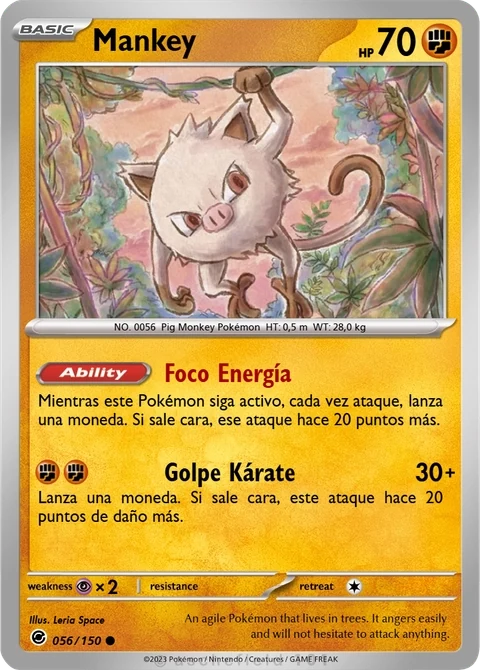
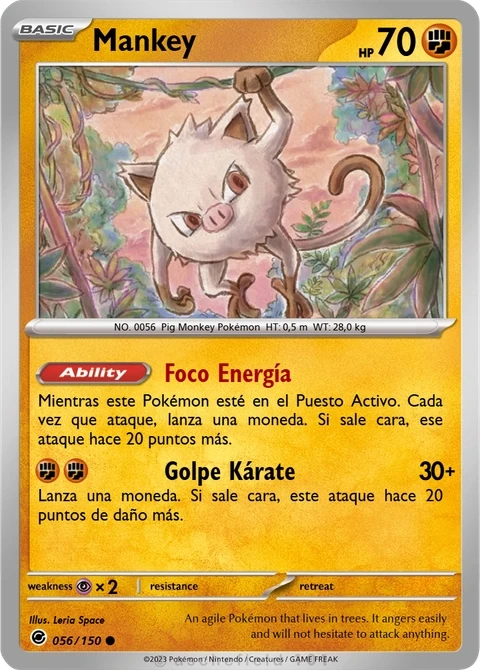
Diseño: Machop, Cubone, Zubat, Slowpoke y Mankey corregido (cartas impresas) (#431)
* Diseño: Machop impreso (066/150) como Mankey y Mankey corregido

Machop pasa a llevar la habilidad Foco Energía y Golpe Kárate (2: 30+)
de Mankey, con su imagen. Se actualizan la imagen de Mankey y el texto
de su habilidad (JSON y copia de la app) y D-20.

Claude-Session: https://claude.ai/code/session_01CiFZA4THdagxuKykbE7hWQ

* D-20: fila de Machop, texto de Foco Energía y registro (Machop como Mankey)

Claude-Session: https://claude.ai/code/session_01CiFZA4THdagxuKykbE7hWQ

* Diseño: Cubone impreso (104/150) y Mankey con retirada 0

Cubone pasa a debilidad planta y un solo ataque (Hueso Palo, 2: 30), con
su imagen. Mankey queda con retirada 0 como su carta reimpresa.

Claude-Session: https://claude.ai/code/session_01CiFZA4THdagxuKykbE7hWQ

* Diseño: Zubat impreso (041/150) con debilidad eléctrico y Supersónico pendiente

Sube la imagen, cambia la debilidad en el JSON y registra en D-20 el
efecto nuevo confundeDefensor (tarea 15). El resto del JSON espera al
efecto para no romper el catálogo.

Claude-Session: https://claude.ai/code/session_01CiFZA4THdagxuKykbE7hWQ

* Diseño: Slowpoke impreso (079/150); confundeDefensor con monedas

Sube la imagen y amplía la tarea 15: Hidropulso lanza 2 monedas y
confunde solo si ambas son Cara. El JSON espera al efecto.

Claude-Session: https://claude.ai/code/session_01CiFZA4THdagxuKykbE7hWQ

* Test: Mankey con retirada 0 (carta reimpresa)

Claude-Session: https://claude.ai/code/session_01CiFZA4THdagxuKykbE7hWQ

---------

Changed region(s): [[0.0625, 0.5672, 0.9375, 0.806], [0.8125, 0.6866, 0.9688, 0.7761], [0.7188, 0.8657, 0.7812, 0.8955]]

diff --git a/engine/test/campana_catalogo_test.dart b/engine/test/campana_catalogo_test.dart
@@ -164,7 +164,7 @@ void main() {
       expect(m.ps, 70);
       expect(m.tipo, TipoCampana.lucha);
       expect(m.debilidad!.tipo, TipoCampana.psiquico);
-      expect(m.retirada, 1);
+      expect(m.retirada, 0);
       final h = m.habilidad as MonedaDanoExtraAlAtacar;
       expect(h.nombre, 'Foco Energía');
       expect(h.valor, 20);

diff --git a/docs/D-20-modo-campana.md b/docs/D-20-modo-campana.md
@@ -167,8 +167,9 @@ Decidido el 2026-11-21. Un ataque puede llevar un `efecto` y entonces puede tene
 - **`aumentaDanoRecibido` (Látigo de Squirtle):** «Mientras el Pokémon Defensor siga activo, recibe 10 puntos más de daño de los ataques (antes de aplicar debilidad y resistencia). No se acumula.» Es el efecto simétrico: mismas reglas (dura mientras ese Pokémon siga activo, se quita al cambiarlo o cuando cae, no se acumula) pero sobre el daño que **recibe**. Se suma antes de la debilidad y la resistencia; un ataque sin daño no gana el extra. Los dos efectos se combinan. Estado del bando afectado: `BandoCombate.danoExtra`.
 - **`quitaEnergiaRival` (Disparo Demora de Caterpie):** «El rival pierde 1 de energía (si le queda alguna). No se acumula con nada: se aplica una vez, al usar el ataque.» Es instantáneo: baja la reserva del rival en `valor` (mínimo 0) en el momento de atacar y no deja estado, así que no hay nada que acumular ni que quitar al cambiar de Pokémon. Vale como ataque de 0 de daño (coste 1). La IA lo usa solo si con ello el rival deja de poder dar un golpe mayor que el que haría ella atacando.
 - **`ganaEnergia` (Pulimento de Geodude):** «Tu bando recupera 2 de energía (hasta el máximo de 10).» Ataque de coste 1 y 0 de daño. Instantáneo, como `quitaEnergiaRival`: al usarlo, primero se paga el coste y después se suma `valor` a la reserva del propio bando, con tope en el máximo (`ParametrosCombate.energiaMaxima`, 10); no deja estado, así que no hay nada que acumular ni que quitar al cambiar de Pokémon. Si el ataque falla por Bofetón Lodo (cruz), no suma nada. Propuesto por Ayme el 2026-11-22 a partir de Pulimento de los juegos (sube la Velocidad dos niveles): la velocidad se traslada a la energía. **Ojo con el número:** como Cargar ya da 1 de energía extra (2 en total ese turno), Pulimento con coste 1 y `valor` 2 deja el mismo saldo que Cargar (−1 +2 +1); solo mejora a Cargar con `valor` 3. Ayme imprimió la carta con **2**; Calidad debe medir si aporta algo y, si no, se sube a 3 y se reimprime. Con la reserva llena (empieza en 10) no sirve de nada. **IA (tarea 14):** lo usa **en lugar de cargar** (cuando cargaría para rematar al turno siguiente o porque no llega a ningún ataque), y solo si la reserva no está llena, al activo le falta energía para alguno de sus ataques y acaba con al menos la misma energía que cargando. Con la reserva llena nunca lo usa.
+- **`confundeDefensor` (Supersónico de Zubat e Hidropulso de Slowpoke), nuevo y pendiente de implementar:** lleva un campo `monedas` (1 por defecto): se lanzan esas monedas y, **si todas salen Cara**, el Pokémon Defensor pasa a estar Confundido. Supersónico (Zubat): «Lanza una moneda. Si sale Cara, el Pokémon Defensor pasa a estar Confundido» (coste 1, 0 de daño). Hidropulso (Slowpoke): «Lanza 2 monedas. Si en ambas sale Cara, el Pokémon Defensor pasa a estar Confundido» (coste 3, **40 de daño**, un 25 % de confundir). Decidido el 2026-11-23 (opción 2: efecto nuevo en vez de reimprimir la carta). En campaña **Confundido no es el estado del TCG**: reutiliza el estado de `monedaFalloRival` (`BandoCombate.cegado`), de modo que, con cara, en su próximo turno el Defensor, **si ataca**, lanza una moneda y con cruz ese ataque no hace nada (la energía se gasta igual). Dura **solo ese turno** y no se acumula; no hace daño al propio Pokémon. Con cruz en la moneda del ataque no pasa nada. La IA no lo tiene en cuenta (igual que Bofetón Lodo).
 - **`monedaDanoExtra` (Hiper Colmillo de Rattata):** «Lanza una moneda, si sale cara este ataque hace 20 puntos de daño más.» Decidido el 2026-11-21: **el azar entra en el motor**, pero sin perder el determinismo. `EstadoCombate.semilla` (generador Park-Miller, mismas cuentas en la VM y en web) avanza solo al lanzar una moneda, y el resultado queda en `EstadoCombate.ultimaMoneda` para que la interfaz lo muestre. El `dano` de la carta es el de **cruz**; con cara se le suma el extra al daño base, antes de reducciones, debilidad y resistencia. La semilla se elige al empezar el combate (`EstadoCombate.inicial(semilla: …)`); con la misma semilla y las mismas acciones el combate sale igual, así que los tests y el simulador siguen siendo reproducibles. La IA **cuenta solo el daño de cruz** (no apuesta a la moneda) al decidir.
-- **Habilidades pasivas — `monedaDanoExtraAlAtacar` (Foco Energía de Mankey):** «Mientras este Pokémon siga activo, cada vez que ataque, lanza una moneda. Si sale cara, ese ataque hace 20 puntos más.» Decidido el 2026-11-22. Es la primera **habilidad**: va en el campo `habilidad` de la carta (`PokemonCampana.habilidad`), no en un ataque, y actúa sola, sin gastar energía ni turno. En `_atacar` se lanza una moneda más con la semilla del combate (se suma a `ultimasMonedas` después de las del propio ataque) y con cara se suman 20 al daño base, antes de reducciones, debilidad y resistencia. Se acumula con la moneda de Golpe Kárate (hasta +40). La IA no cuenta esta moneda: decide con el daño base del ataque. Mankey queda en 70 PS, debilidad psíquico y retirada 1.
+- **Habilidades pasivas — `monedaDanoExtraAlAtacar` (Foco Energía de Mankey y de Machop):** «Mientras este Pokémon esté en el Puesto Activo. Cada vez que ataque, lanza una moneda. Si sale cara, ese ataque hace 20 puntos más.» Decidido el 2026-11-22. Es la primera **habilidad**: va en el campo `habilidad` de la carta (`PokemonCampana.habilidad`), no en un ataque, y actúa sola, sin gastar energía ni turno. En `_atacar` se lanza una moneda más con la semilla del combate (se suma a `ultimasMonedas` después de las del propio ataque) y con cara se suman 20 al daño base, antes de reducciones, debilidad y resistencia. Se acumula con la moneda de Golpe Kárate (hasta +40). La IA no cuenta esta moneda: decide con el daño base del ataque. Mankey queda en 70 PS, debilidad psíquico y retirada 1 (después 0, el 2026-11-23).
 - **`repiteDanoAlDerribar` (Doble Patada de Nidoran♀):** «Si el Pokémon Defensor queda fuera de combate por el daño de este ataque, el nuevo Pokémon Defensor recibe de nuevo ese daño.» Decidido el 2026-11-21. Si el ataque derriba al activo rival y le quedan Pokémon, el motor guarda el ataque (`EstadoCombate.repetirDano`) y, **en cuanto el rival elige a su relevo**, ese relevo lo recibe otra vez, calculado contra **su propia** debilidad y resistencia. Se repite **una sola vez**: si el relevo también cae, no se encadena. Si era el último Pokémon, el combate termina por el primer golpe. La IA no lo tiene en cuenta.
 - **Nuevo tipo `oscuridad`:** Nidoran♀ es de tipo oscuridad (los Pokémon de veneno pasan a este tipo en el TCG). Es otro paso para alinear los tipos con el TCG, junto con la decisión de que tierra y roca son lucha.
 - **`monedasDano` (Ataque Furia de Spearow):** «Lanza 3 monedas. Con 1 cara, hace 20 puntos de daño; con 2 caras, 30; con 3 caras, 40; con 0 caras, 50.» Decidido el 2026-11-21. El ataque lanza `monedas` monedas con la semilla del combate (`EstadoCombate.ultimasMonedas` guarda todas, en orden, para mostrarlas) y hace el daño de `danoPorCaras[caras]`. El `dano` del JSON es el **daño esperado** (30: 50·1/8 + 20·3/8 + 30·3/8 + 40·1/8), que solo usa la IA y el baremo; el daño real sale de la tabla. Toda tirada hace 20 o más, así que cumple la regla del ataque de 20. La IA decide con el daño esperado, no con la tirada.
@@ -369,6 +370,7 @@ Una issue por pieza; cada una se trabaja en su rama y su PR (el título del PR c
 | 12 | Tipos del TCG: `hielo`, `veneno`, `volador`, `bicho` y `fantasma` pasan a otros tipos y entra `metal` (§8, pregunta 10; §10.3) | Hecho (#404) |
 | 13 | Pantalla del mapa como escenas interactivas (hierba alta, bordes y edificios pulsables) y retroceso entre escenas; sprites de EP, e interfaz y fondos propios (#365; §10.7); combate (tocar la carta activa y elegir acción) equipo (rejilla de cartas, PC aparte) y centro Pokémon (escena interactiva) (§10.7) | Decidido el 2026-11-22; pendiente de implementar. Wireframes cerrados; el acabado visual es del artista (§10.10) |
 | 14 | **Pulimento de Geodude:** efecto `ganaEnergia` (esquema, motor, IA), actualizar `geodude.json` a la carta impresa (§10.5) y volver a medir a Brock con el simulador | Motor, IA, esquema y `geodude.json` **hechos**; la nueva medida de Brock queda para Calidad |
+| 15 | **Supersónico de Zubat e Hidropulso de Slowpoke:** efecto `confundeDefensor` con campo `monedas` (esquema, motor, IA), actualizar `zubat.json` y `slowpoke.json` a sus cartas impresas (§10.5; el test «Zubat es de oscuridad y Ataque Ala es normal» cambia) y volver a medir con el simulador | Pendiente |
 
 ## 10. Registro de decisiones
 
@@ -434,6 +436,7 @@ Cada efecto se decidió al hacer la carta que lo lleva. Todos están en el motor
 | 2026-11-22 | `reduceDanoPropio` + `reduceDanoRival` | Fortaleza y Gruñido **se suman**. |
 | 2026-11-22 | Habilidad `monedaDanoExtraAlAtacar` (Foco Energía, Mankey) | Primera **habilidad pasiva**: cada vez que ataca, lanza una moneda; con cara, +20 (el golpe crítico modelado con moneda). Se acumula con la moneda de Golpe Kárate. #352 |
 | 2026-11-22 | `ganaEnergia` (Pulimento, Geodude) | «Tu bando recupera 2 de energía (hasta el máximo de 10).» Coste 1, 0 de daño. Sube la Velocidad de los juegos trasladada a la energía. Equivale a Cargar (−1 +2 +1); con 3 mejoraría a Cargar, pero Ayme imprimió la carta con 2. Coste antes que efecto; la IA lo usa en vez de cargar si le falta energía para su ataque grande y la reserva no está llena. Motor, IA, esquema y tests: tarea 14 (§9). |
+| 2026-11-23 | `confundeDefensor` (Supersónico, Zubat) | «Lanza una moneda. Si sale Cara, el Pokémon Defensor pasa a estar Confundido.» Coste 1, 0 de daño. Efecto nuevo (opción 2), sin reimprimir la carta; Confundido reutiliza el estado de `monedaFalloRival`. Pendiente de motor, IA y simulador (§9, 15). Lleva `monedas` (1 en Supersónico, 2 en Hidropulso). |
 
 ### 10.5 Cartas y balance
 
@@ -450,6 +453,11 @@ Cada efecto se decidió al hacer la carta que lo lleva. Todos están en el motor
 | 2026-11-22 | **Geodude impreso (074/150):** lucha, 80 PS, debilidad agua ×2, **sin resistencia**, retirada 1. **Pulimento** (1: 0 de daño, `ganaEnergia` 2) y **Lanzarrocas** (3: 50). Sustituye a Placaje; `geodude.json` pasa a la carta impresa en la tarea 14 (valores provisionales hasta que Calidad los mida contra Brock). Lanzarrocas de 3 energías y 50 entra en el baremo de básico (§3.5) pero endurece a Brock; Calidad lo mide y, si es demasiado duro, baja a 40. | §12; imagen `geodude.webp` |
 | 2026-11-22 | **Onix impreso (095/150, carta normal, no de jefe):** lucha, 110 PS, debilidad agua ×2, **sin resistencia**, retirada 1, **un solo ataque**: **Tumba Rocas** (3: 50, `quitaEnergiaRival` 1: «El rival pierde 1 energía (si le queda alguna)»). Sustituye a Atadura y Lanzarrocas; Tumba Rocas traslada a energía el «baja la Velocidad» de los juegos, sin motor nuevo. Los 110 PS salen del baremo de básico (50–90) como excepción del as de Brock; Calidad lo mide y, si Brock sale demasiado duro, se baja a 90 antes de imprimir de nuevo. | §12; imagen `onix.webp`; `onix.json` |
 | 2026-11-22 | **Tasa de victoria objetivo: 75 %** por combate. No vale para la Liga, que tiene su propio objetivo del 25 % sobre toda la cadena (§10.7). | §8, 19; `balance/informes/campana_calibrar_2026-11-22.md`; #383 |
+| 2026-11-23 | **Machop impreso (066/150) como Mankey:** mismos 70 PS, debilidad psíquico ×2 y sin resistencia, la **misma habilidad Foco Energía** y el **mismo ataque Golpe Kárate** (2: 30+, `monedaDanoExtra` 20). Retirada 0. Sustituye a Golpe Kárate sin efecto y a Patada Baja (3: 50) del catálogo. Mankey se reimprimió para corregir el texto de la habilidad («esté en el Puesto Activo. Cada vez que ataque…»). | §12; imágenes `machop.webp`, `mankey.webp` |
+| 2026-11-23 | **Mankey: retirada 0.** La carta reimpresa lleva retirada 0 y Ayme la da por buena; sustituye a «retirada 1» (decidida el 2026-11-22). | §12; `mankey.json` |
+| 2026-11-23 | **Cubone impreso (104/150):** lucha, 60 PS, **debilidad planta ×2** (antes agua), sin resistencia, retirada 0 y **un solo ataque**, **Hueso Palo** (2: 30, sin efecto). Sustituye a Garra y Golpe Hueso. | §12; imagen `cubone.webp` |
+| 2026-11-23 | **Zubat impreso (041/150), con debilidad eléctrico ×2** (no lucha): oscuridad, 60 PS, sin resistencia, retirada 0; **Supersónico** (1: moneda, Confundido, `confundeDefensor`) y **Mordisco** (2: 30). Eligió eléctrico porque Zubat vuela y porque el Túnel Roca está lleno de rivales de lucha; además evita sumar otra carta de oscuridad débil a lucha (§10.3). Sustituye a Mordisco (1: 10) y Ataque Ala (2: 30). El JSON solo cambia la debilidad hasta la tarea 15. | §12; imagen `zubat.webp` |
+| 2026-11-23 | **Slowpoke impreso (079/150):** agua, 80 PS, debilidad eléctrico ×2, sin resistencia, retirada 1; **Pistola Agua** (2: 20) y **Hidropulso** (3: 40; lanza 2 monedas y, si ambas son Cara, Confundido, `confundeDefensor` con `monedas` 2). Sustituye a Pistola Agua (1: 20) y Confusión (2: 30). Pistola Agua de coste 2 pega 20, por debajo del baremo de básico (30–40), pero como Burbuja de Squirtle; Hidropulso de 40 con coste 3 también, a cambio del efecto. El JSON espera a la tarea 15. | §12; imagen `slowpoke.webp` |
 
 ### 10.6 Equipo, captura y progresión
 
@@ -614,18 +622,18 @@ Generado a partir de `catalog/campana/` el 2026-11-22. Si algo de aquí no coinc
 | 027 | `sandshrew` | Sandshrew | lucha | 70 | planta | — | 0 | — | Rizo Defensa (1: efecto `reduceDanoPropio`); Rodar (2: 20×racha `danoPorRacha`) | Común | — | sí |
 | 029 | `nidoran-f` | Nidoran♀ | oscuridad | 60 | lucha | — | 0 | — | Golpes Furia (2: 30 esp. `monedasDano`); Doble Patada (3: 30 `repiteDanoAlDerribar`) | Común | — | sí |
 | 032 | `nidoran-m` | Nidoran♂ | oscuridad | 60 | lucha | — | 0 | — | Picotazo veneno (1: 10 `envenenaDefensor`); Ataque Furia (2: 30 esp. `monedasDano`) | Común | — | sí |
-| 041 | `zubat` | Zubat | oscuridad | 60 | lucha | — | 0 | — | Mordisco (1: 10); Ataque Ala (2: 30) | Común | — | no |
+| 041 | `zubat` | Zubat | oscuridad | 60 | electrico | — | 0 | — | Mordisco (1: 10); Ataque Ala (2: 30) | Común | — | sí (desfasada) |
 | 050 | `diglett` | Diglett | lucha | 50 | planta | — | 0 | — | Arañazo (1: 10); Bofetón Lodo (2: 30 `monedaFalloRival`) | Común | — | sí |
-| 056 | `mankey` | Mankey | lucha | 70 | psiquico | — | 1 | Foco Energía | Golpe Kárate (2: 30+ `monedaDanoExtra`) | Intermedio | — | sí |
-| 066 | `machop` | Machop | lucha | 70 | psiquico | — | 0 | — | Golpe Kárate (2: 30); Patada Baja (3: 50) | Común | — | no |
+| 056 | `mankey` | Mankey | lucha | 70 | psiquico | — | 0 | Foco Energía | Golpe Kárate (2: 30+ `monedaDanoExtra`) | Intermedio | — | sí |
+| 066 | `machop` | Machop | lucha | 70 | psiquico | — | 0 | Foco Energía | Golpe Kárate (2: 30+ `monedaDanoExtra`) | Común | — | sí |
 | 074 | `geodude` | Geodude | lucha | 80 | agua | — | 1 | — | Pulimento (1: efecto `ganaEnergia`); Lanzarrocas (3: 50) | Intermedio | — | sí |
-| 079 | `slowpoke` | Slowpoke | agua | 80 | electrico | — | 1 | — | Pistola Agua (1: 20); Confusión (2: 30) | Común | — | no |
+| 079 | `slowpoke` | Slowpoke | agua | 80 | electrico | — | 1 | — | Pistola Agua (1: 20); Confusión (2: 30) | Común | — | sí (desfasada) |
 | 095 | `onix` | Onix | lucha | 110 | agua | — | 1 | — | Tumba Rocas (3: 50, `quitaEnergiaRival`) | Fuerte | — | sí |
-| 104 | `cubone` | Cubone | lucha | 60 | agua | — | 0 | — | Garra (1: 10); Golpe Hueso (2: 30) | Común | — | no |
+| 104 | `cubone` | Cubone | lucha | 60 | planta | — | 0 | — | Hueso Palo (2: 30) | Común | — | sí |
 
-**Efectos y habilidades** (columna de ataques): `reduceDanoRival`, `aumentaDanoRecibido`, `quitaEnergiaRival`, `ganaEnergia`, `monedaDanoExtra`, `envenenaDefensor`, `reduceDanoPropio`, `monedaFalloRival`, `danoPorRacha`, `monedasDano` y `repiteDanoAlDerribar` (§3.6); `+` es una moneda que suma daño; `esp.` es el daño esperado de las tiradas. La única habilidad es `monedaDanoExtraAlAtacar` (Foco Energía).
+**Efectos y habilidades** (columna de ataques): `reduceDanoRival`, `aumentaDanoRecibido`, `quitaEnergiaRival`, `ganaEnergia`, `confundeDefensor` (pendiente), `monedaDanoExtra`, `envenenaDefensor`, `reduceDanoPropio`, `monedaFalloRival`, `danoPorRacha`, `monedasDano` y `repiteDanoAlDerribar` (§3.6); `+` es una moneda que suma daño; `esp.` es el daño esperado de las tiradas. La única habilidad es `monedaDanoExtraAlAtacar` (Foco Energía, de Mankey y Machop).
 
-Geodude ya sigue a su carta impresa (2026-11-22, tarea 14): Pulimento (1: `ganaEnergia` 2) y Lanzarrocas (3: 50), sin resistencia y con retirada 1; son valores provisionales hasta que Calidad los mida contra Brock. Las cartas sin imagen (Zubat, Machop, Cubone y Slowpoke) vienen del primer catálogo del Túnel Roca (#340): tienen datos pero no carta impresa. Nidoran♂ guarda el número 32 de la Pokédex; su carta lleva impreso 029/150 (§8, 13).
+Geodude ya sigue a su carta impresa (2026-11-22, tarea 14): Pulimento (1: `ganaEnergia` 2) y Lanzarrocas (3: 50), sin resistencia y con retirada 1; son valores provisionales hasta que Calidad los mida contra Brock. **Las 22 cartas ya están impresas** (2026-11-23). Las del Túnel Roca (Zubat, Machop, Onix, Cubone y Slowpoke) venían del primer catálogo (#340) con datos y sin carta. **Zubat y Slowpoke** llevan en la carta un efecto que todavía no existe, `confundeDefensor` (Supersónico e Hidropulso), así que su JSON sigue con los datos antiguos hasta la tarea 15 (§9); en Zubat solo se cambió la debilidad a eléctrico. Nidoran♂ guarda el número 32 de la Pokédex; su carta lleva impreso 029/150 (§8, 13).
 
 ### Jefes (1)
 
